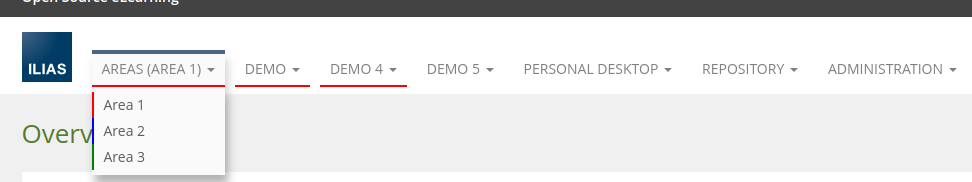
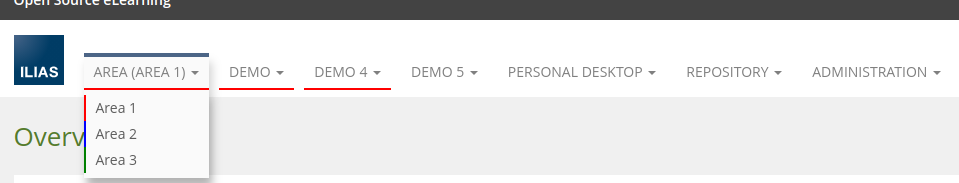
Singular area in select area dropdown

diff --git a/src/SelectedArea/SelectedArea.php b/src/SelectedArea/SelectedArea.php
@@ -183,7 +183,7 @@ class SelectedArea extends ActiveRecord
      */
     public function getTitle() : string
     {
-        $title = self::plugin()->translate("areas", AreasCtrl::LANG_MODULE);
+        $title = self::plugin()->translate("area", AreasCtrl::LANG_MODULE);
 
         if (!empty($area_title = $this->getAreaTitle())) {
             $title .= " (" . $area_title . ")";

diff --git a/plugin.php b/plugin.php
@@ -4,7 +4,7 @@
 require_once __DIR__ . "/vendor/autoload.php";
 
 $id = "srcontobjmenu";
-$version = "2.3.6";
+$version = "2.3.7";
 $ilias_min_version = "5.4.0";
 $ilias_max_version = "6.999";
 $responsible = "studer + raimann ag - Team Custom 1";

diff --git a/CHANGELOG.md b/CHANGELOG.md
@@ -1,5 +1,8 @@
 # Changelog
 
+## [2.3.7]
+- Singular area in select area dropdown
+
 ## [2.3.6]
 - Show menu title of area in table
 
